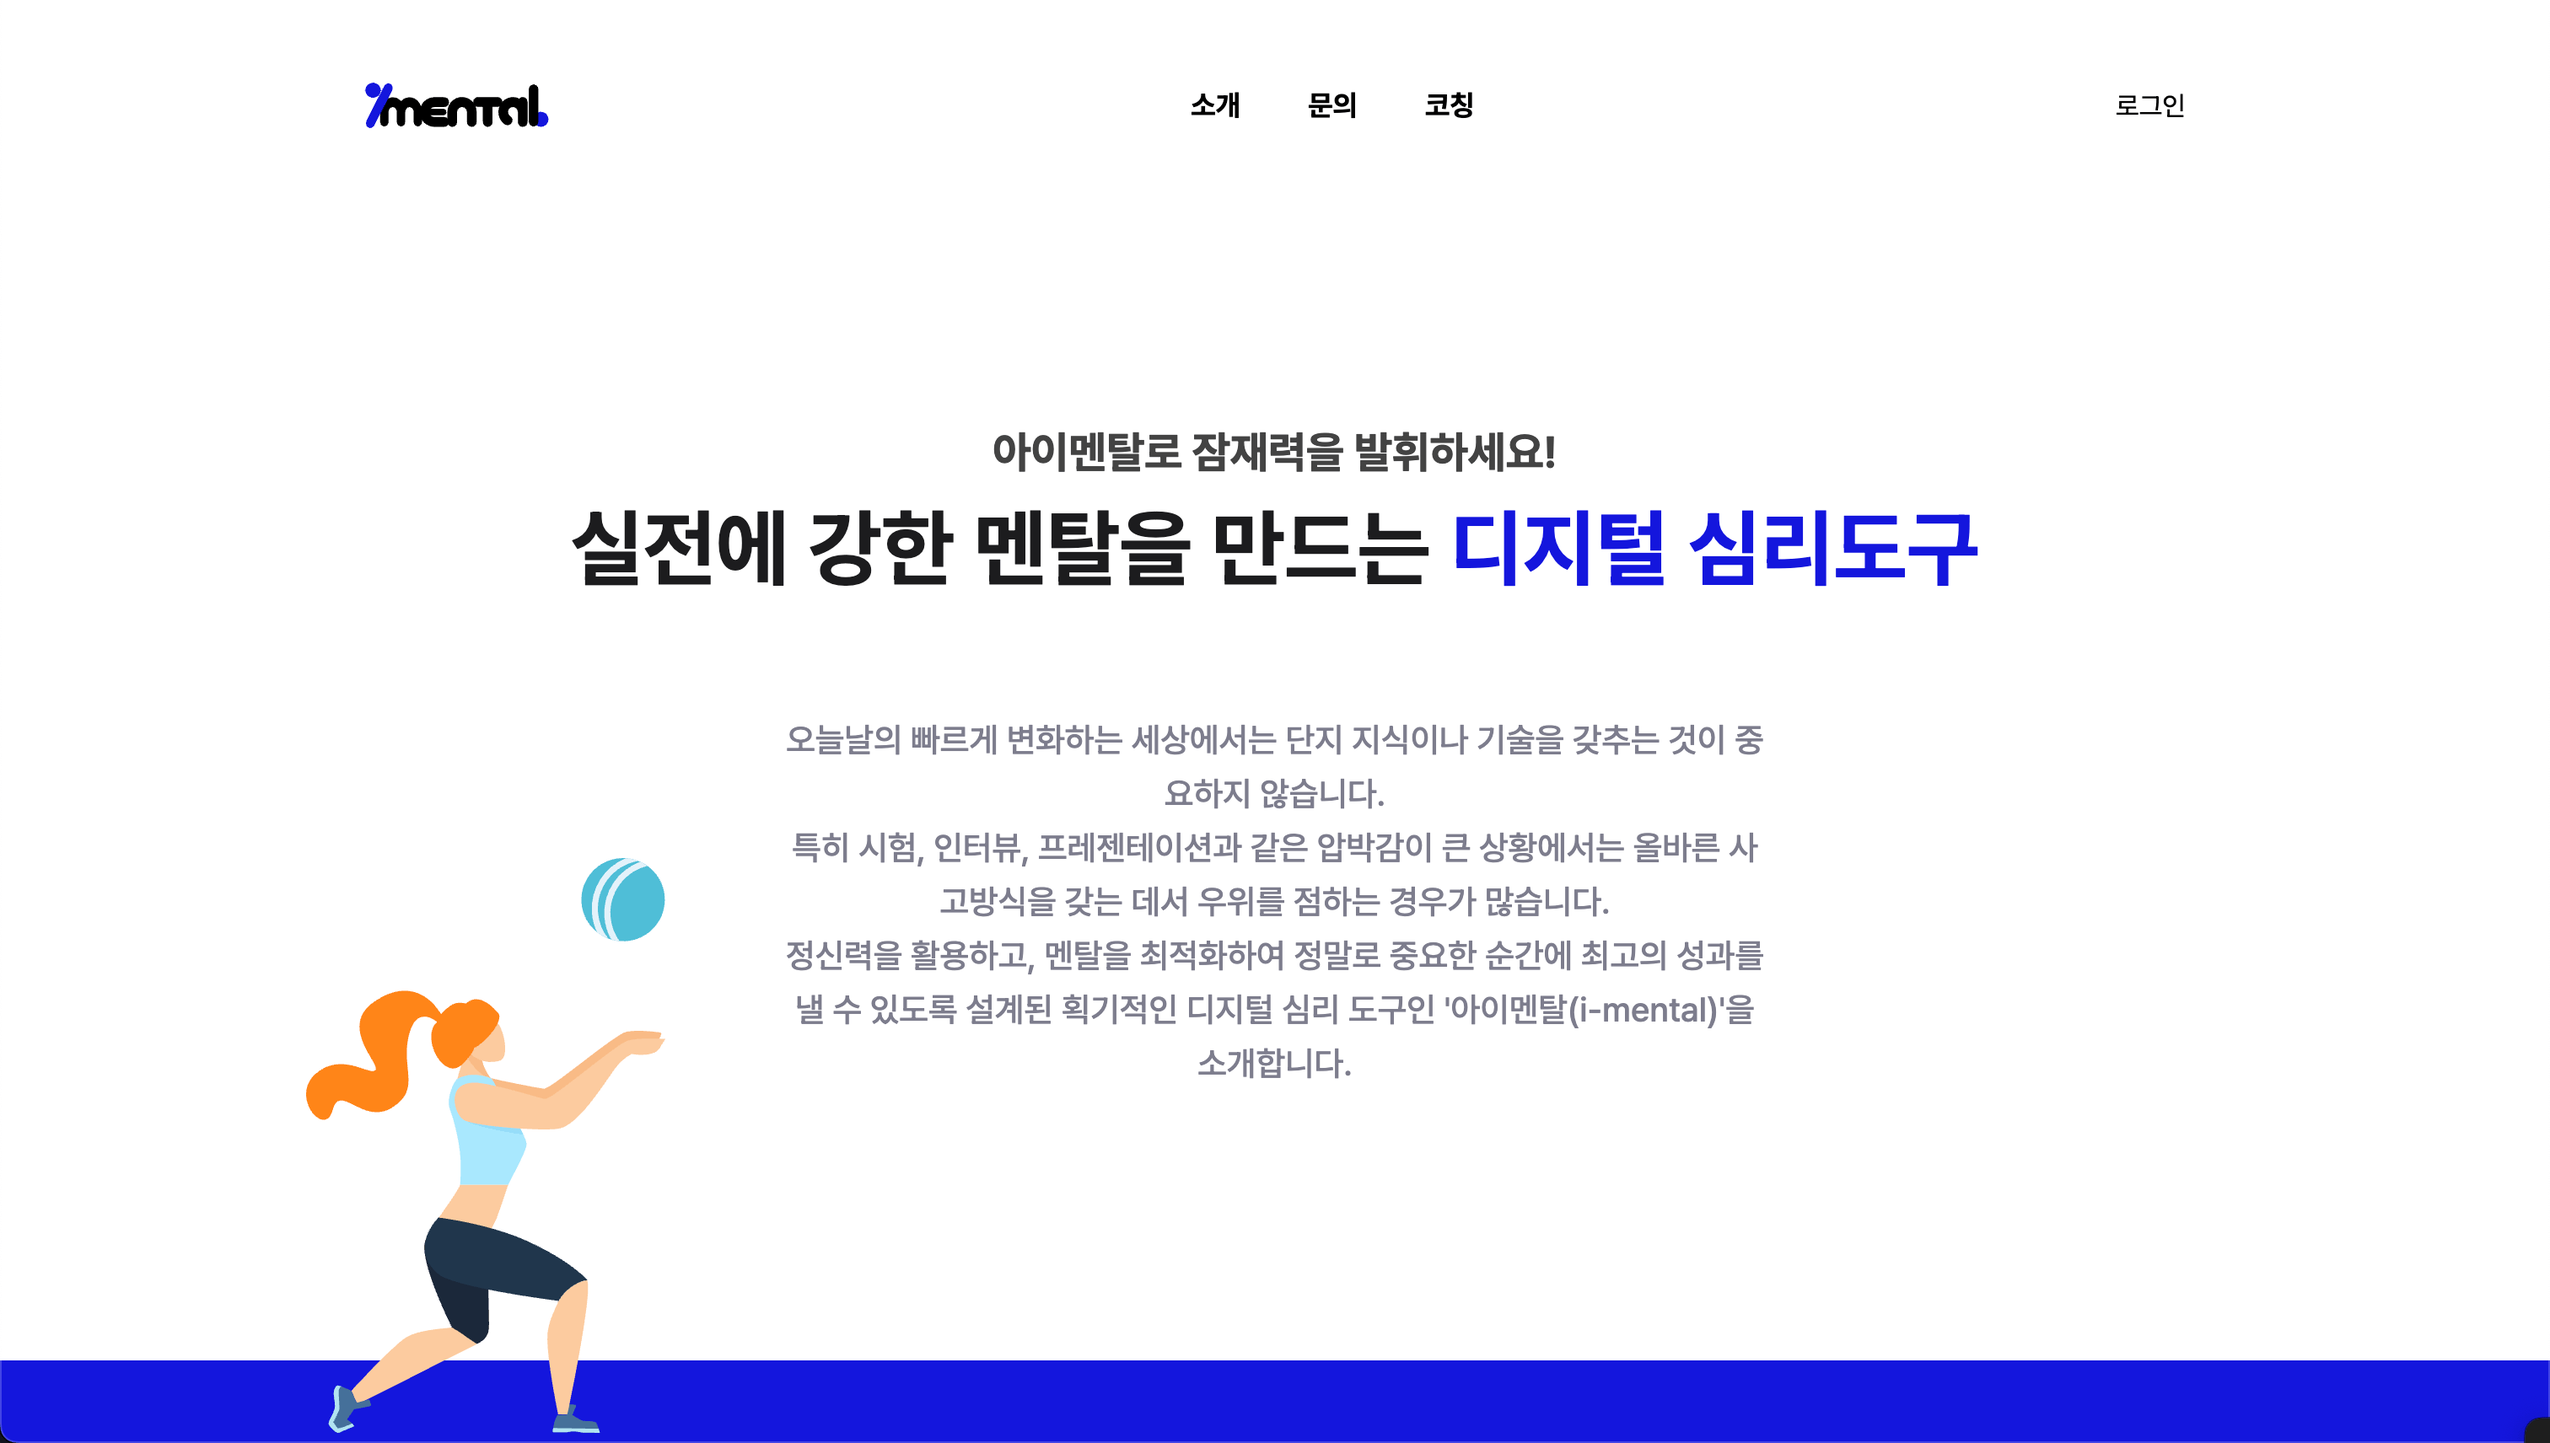
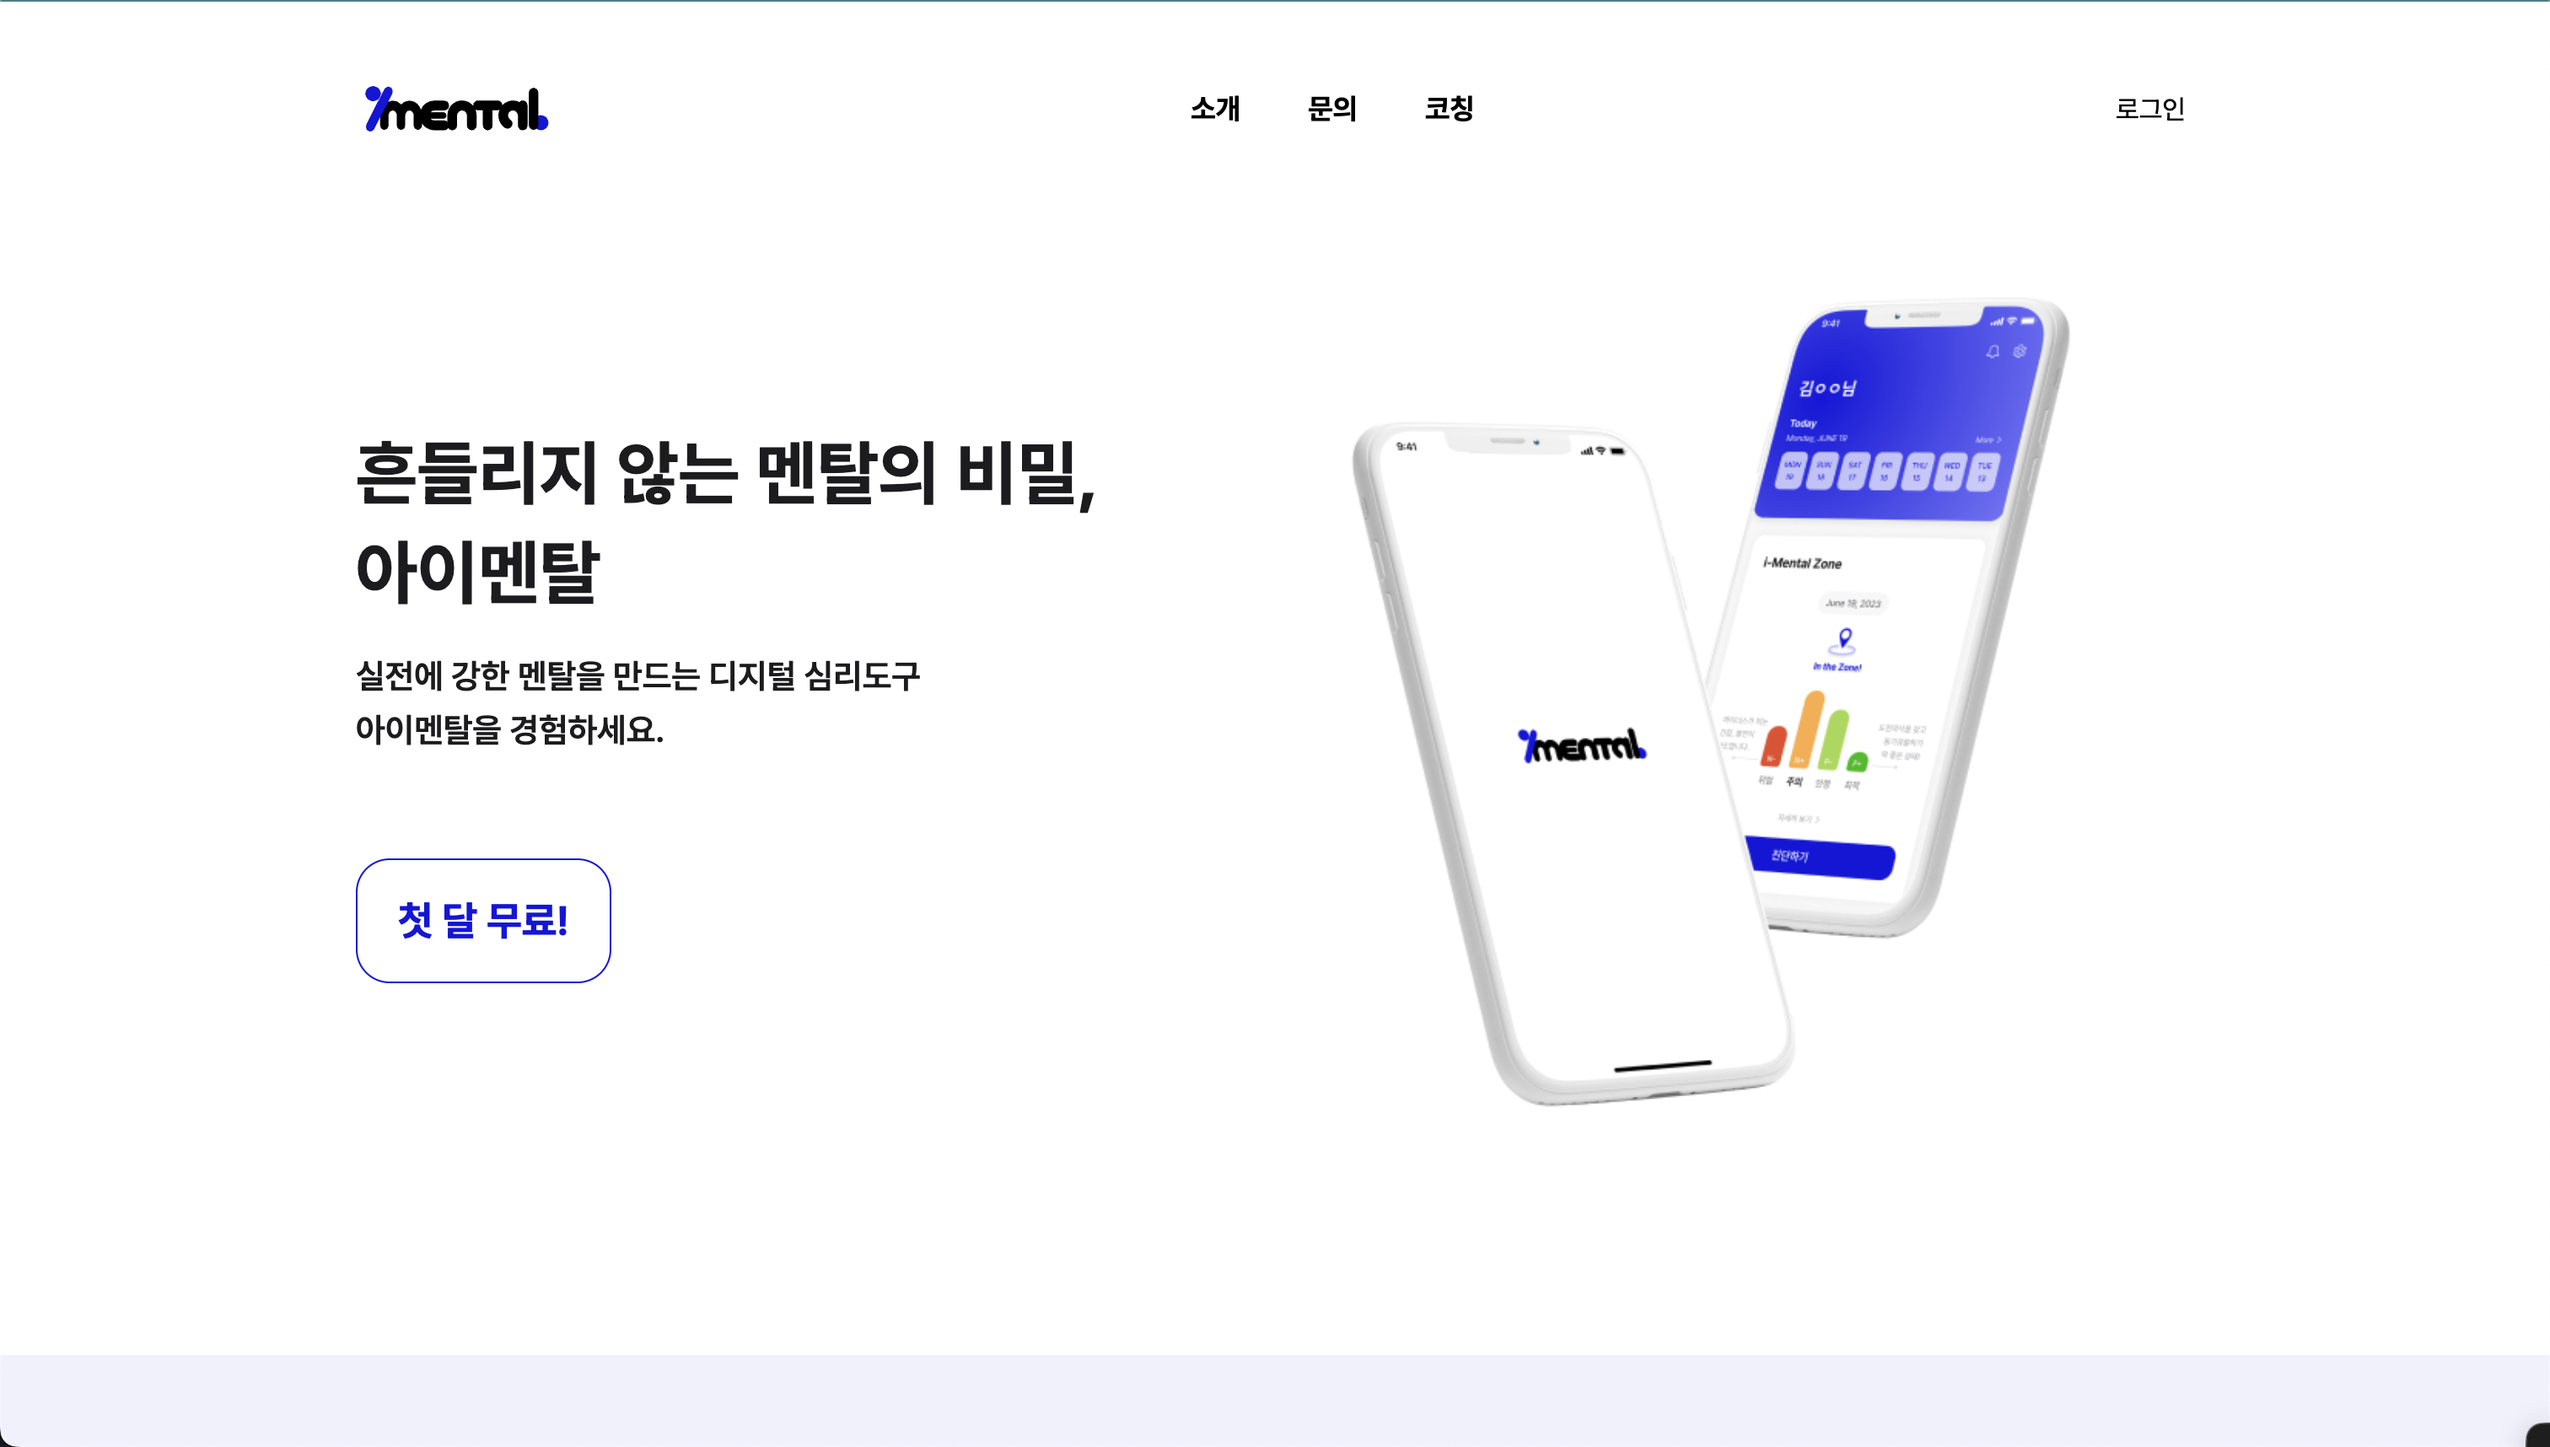
feature/portfolio-deploy-firebase

diff --git a/src/components/Works.tsx b/src/components/Works.tsx
@@ -120,7 +120,11 @@ const Works: React.FC = () => {
         </motion.p>
       </div>
 
-      <div className='mt-20 flex flex-wrap gap-7'>
+      <div className='text-white text-3xl font-bold mt-20 mb-5 text-center'>
+        Websites
+      </div>
+
+      <div className=' flex flex-wrap gap-7'>
         {projects.map((project, index) => (
           <ProjectCard key={`project-${index}`} index={index} {...project} />
         ))}

diff --git a/src/assets/index.ts b/src/assets/index.ts
@@ -25,6 +25,7 @@ import tailwind from './tech/tailwind.png';
 import typescript from './tech/typescript.png';
 import threejs from './tech/threejs.svg';
 import android from './tech/android.png';
+import antd from './tech/antd.png';
 
 import meta from './company/meta.png';
 import shopify from './company/shopify.png';
@@ -79,4 +80,5 @@ export {
   imental,
   petforest,
   link,
+  antd,
 };

diff --git a/index.html b/index.html
@@ -2,7 +2,7 @@
 <html lang="en">
   <head>
     <meta charset="UTF-8" />
-    <link rel="icon" type="image/svg+xml" href="/logo.svg" />
+    <link rel="icon" type="image/svg+xml" href="/logo.jpg" />
     <link
       href="https://fonts.googleapis.com/css2?family=Be+Vietnam+Pro:wght@400;500;600;700&display=swap"
       rel="stylesheet"

diff --git a/src/constants/index.ts b/src/constants/index.ts
@@ -30,6 +30,7 @@ import {
   petforest,
   kiwivine,
   imental,
+  antd,
 } from '../assets';
 
 interface NavLink {
@@ -155,7 +156,7 @@ export const technologies: Technology[] = [
   },
   {
     name: 'Ant Design',
-    icon: android,
+    icon: antd,
   },
 ];
 
